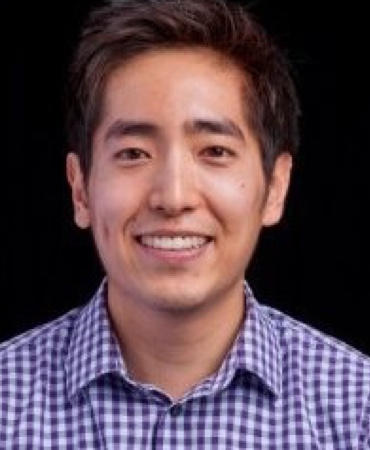
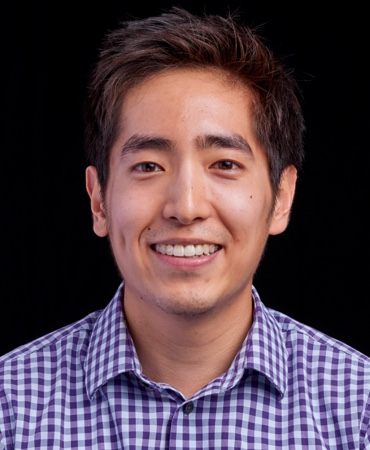
updating the website bios, rem matt, adding nevill, updating kenny's photo

diff --git a/index.html b/index.html
@@ -546,22 +546,22 @@
                         <article class="modern-team-item circle-mask zoom-slide-effect">
                             <div class="item-wrapper">
                                 <div class="item-img">
-                                    <img src="assets/images/matt.jpg" class="member-avatar" alt="">
+                                    <img src="assets/images/nevill.jpg" class="member-avatar" alt="">
                                 </div>
                                 <div class="overlay-wrapper">
                                     <div>
                                             <div class="quote-text" style="color: white"> 
                                                     <br>As we look ahead into the next century, leaders will be those who empower others.<br><br/>
                                             </div>
-                                            <a href="https://www.linkedin.com/in/matt-yoo-292a0294/" class="social">
+                                            <a href="https://www.linkedin.com/in/nguyentrongnghia/" class="social">
                                                 <i class="social-icon fa fa-linkedin"></i>
                                             </a>
                                         </div>
                                 </div>
                             </div>
                             <div class="member-info">
-                                <h3 class="member-name">Matt <strong>Yoo</strong></h3>
-                                <span class="member-position">Strategic Partnerships</span>
+                                <h3 class="member-name">Nevill <strong>Nguyen</strong></h3>
+                                <span class="member-position">Technology Director</span>
                             </div>
                         </article>
                     </div>
@@ -769,7 +769,7 @@
                 <div class="light-bordered light-raised">
                     <div class="card-body">
                         <form class="padding-20" action="https://formspree.io/thomas@venturepoint.io" method="POST">
-                            <input type="hidden" name="_cc" value="matt@venturepoint.io,kenny@venturepoint.io" />
+                            <input type="hidden" name="_cc" value="kenny@venturepoint.io" />
                             <!--<input type="hidden" name="_next" value="https://site.io/thanks.html" />-->
                             <div class="control-material is-primary">      
                                 <input name="fullname" style="border-bottom: 1px solid #fff;color: #fff" class="material-input " type="text" required="">
